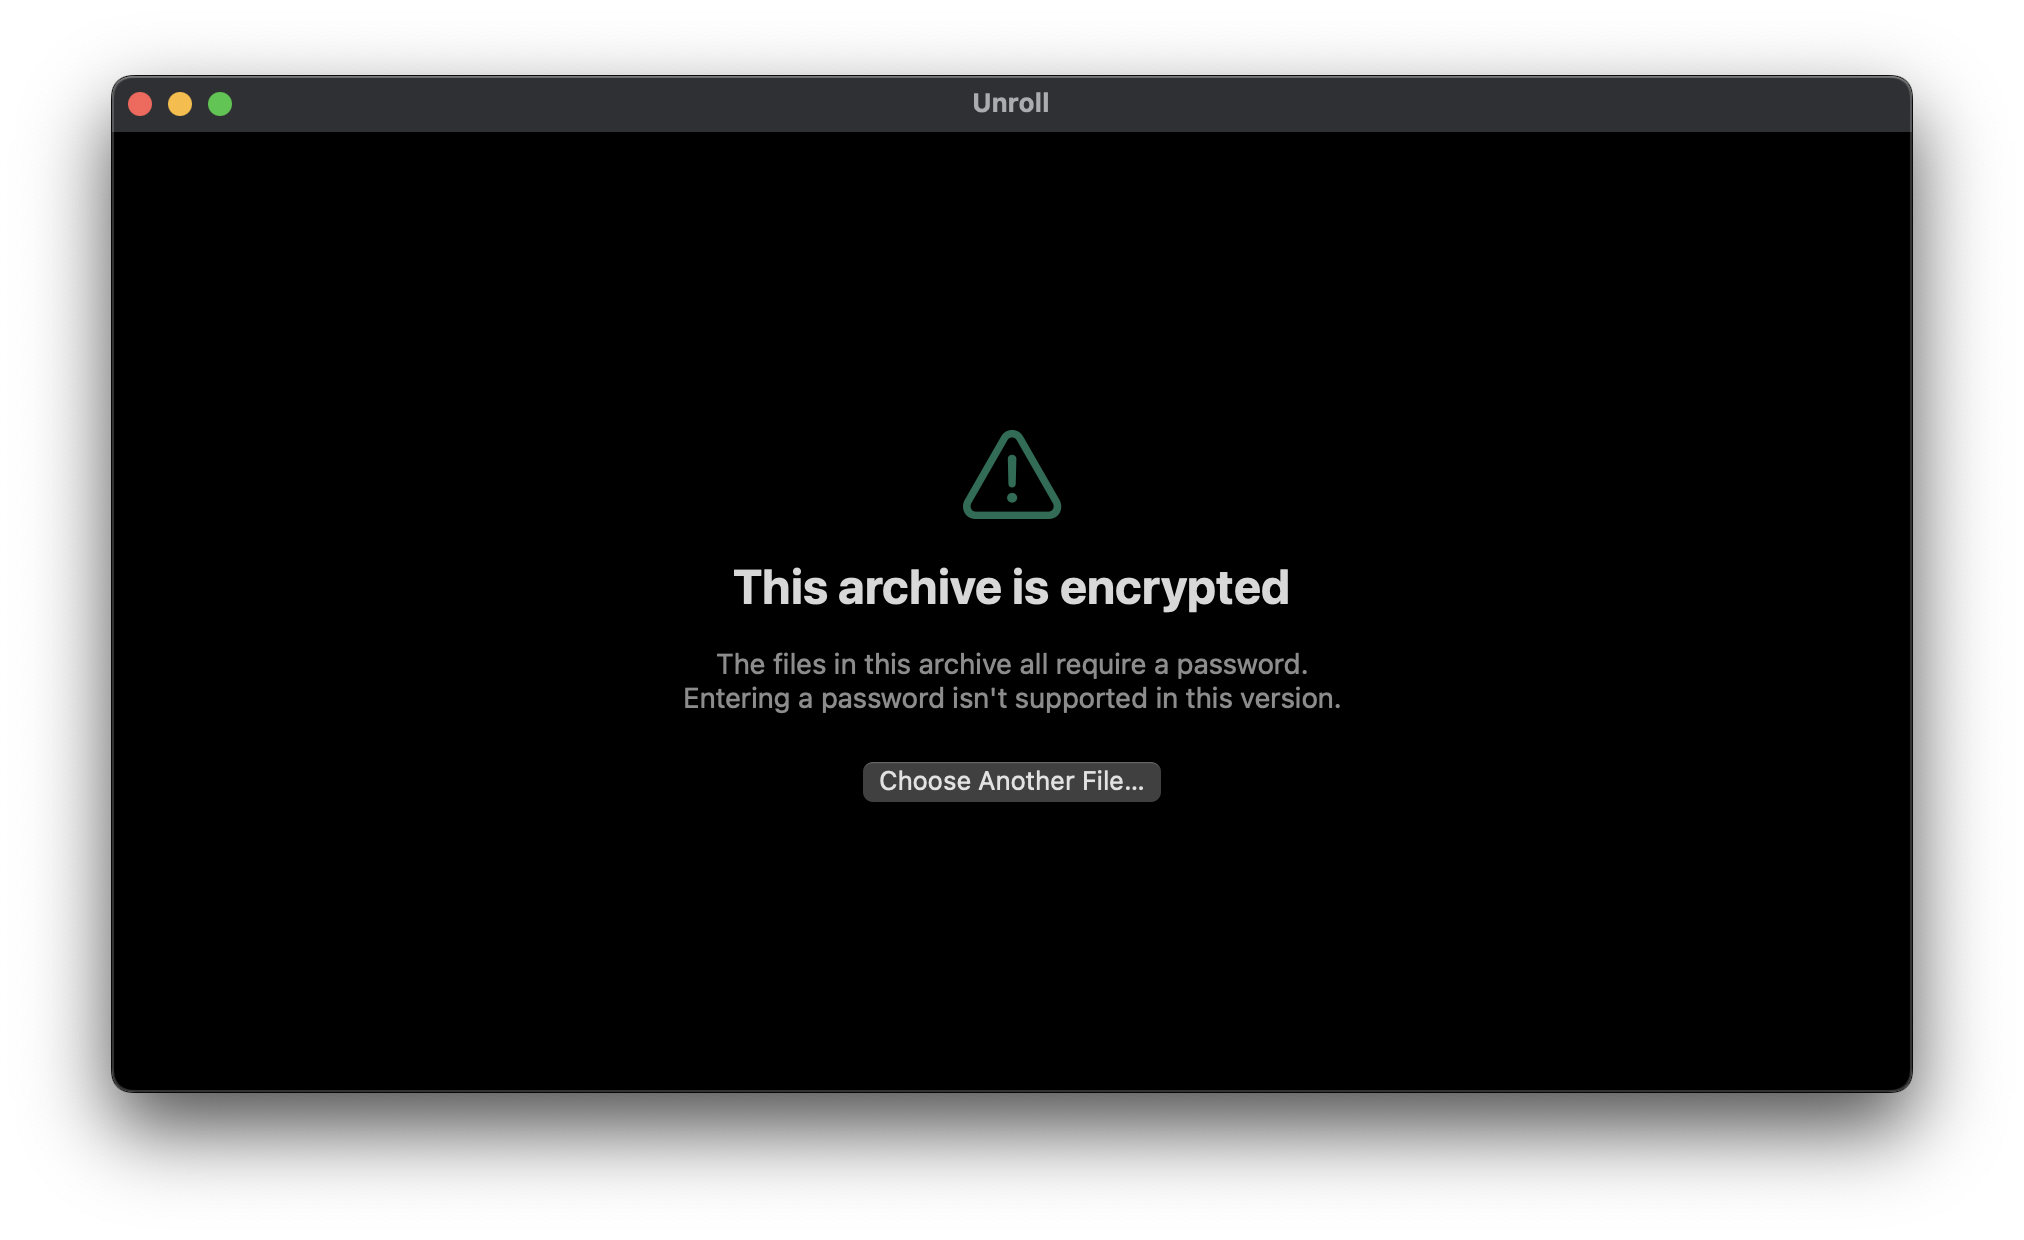
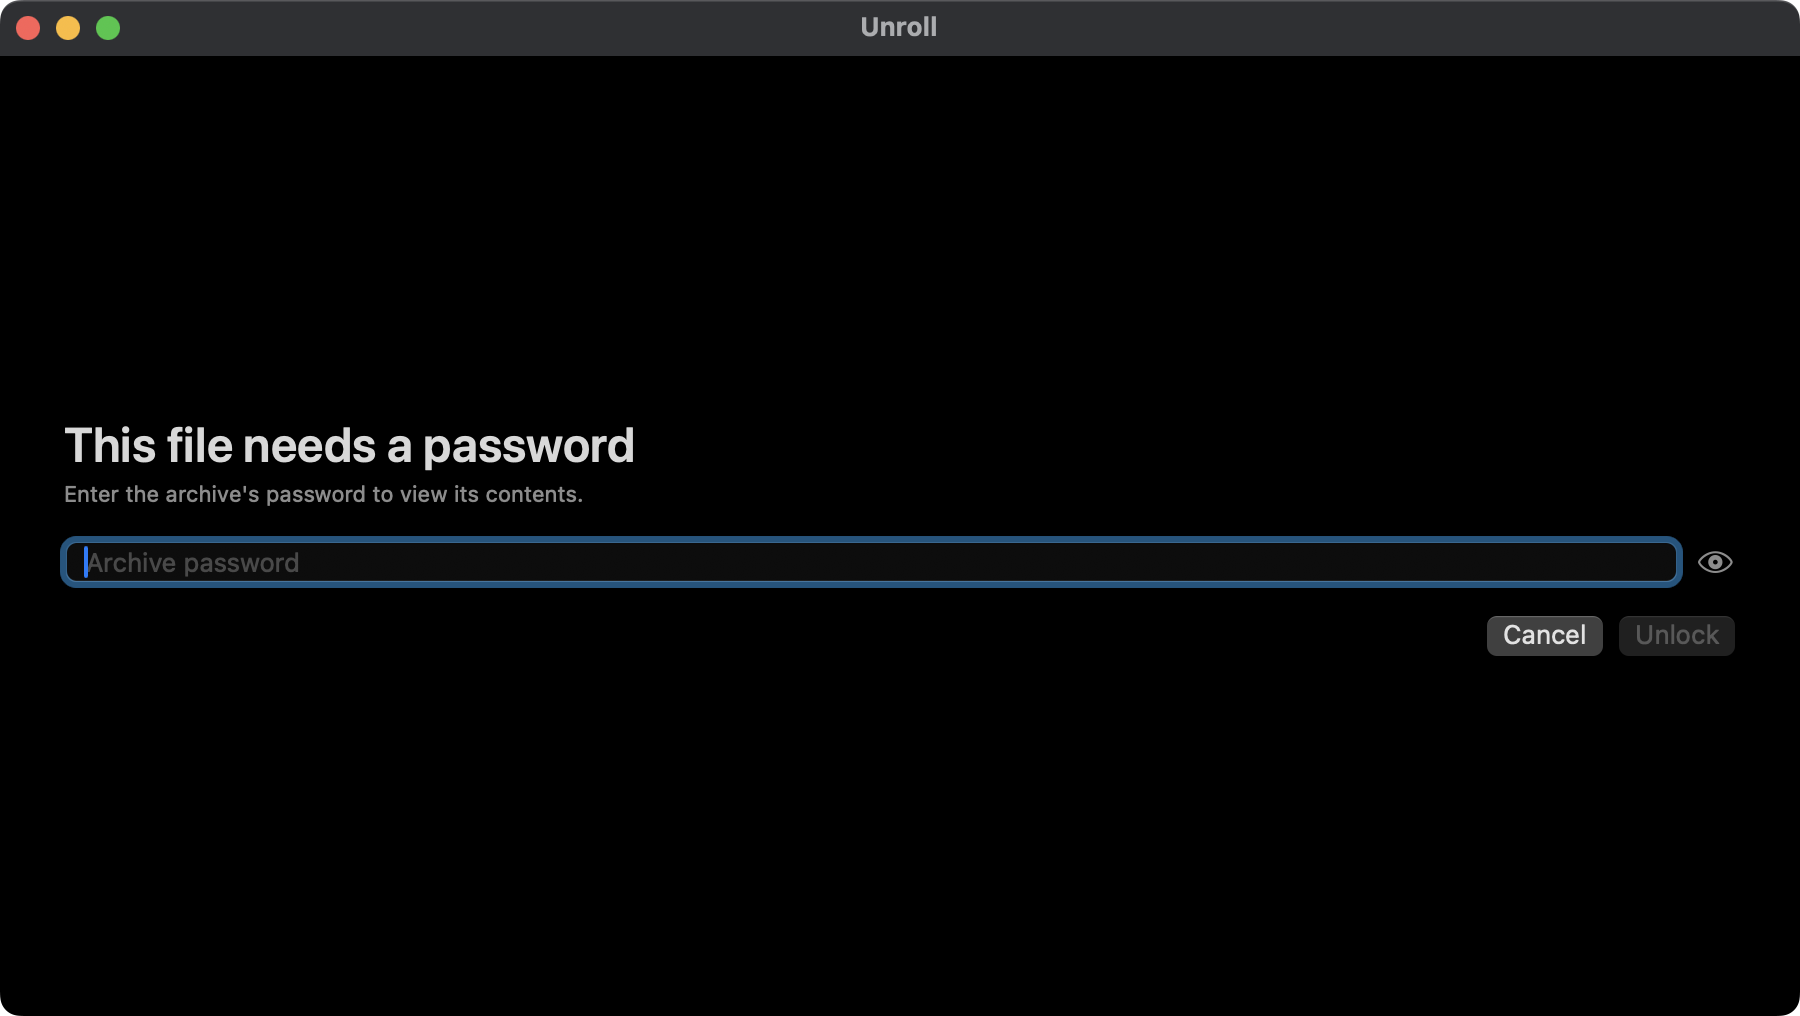
fix(release): 发布说明过期 / README 截图是旧界面 / 文档里的失效哈希与版本
一轮发布前核查,发现五处会真正影响到「发出去的东西」的问题:

1. release-notes-v1.0.1.md 停在上一批(通篇没有"密码"二字),而产物已重建、
   功能已落地。前检对说明只做 `[ -f ]`,八项全绿也会把一份缺头号功能的正文
   发到 Release 页。已重写(中英同步),并把守卫从"验存在"改成"验内容":
   说明里必须出现本版版本号(硬失败),mtime 早于产物另给一条提示(不判失败
   —— 先写说明再重建产物是正当顺序)。反向测试:注入不含版本号的假说明 →
   第 5 步立刻红、退出码 1;换回真说明 → 转绿。

2. README 的加密归档截图还是 09-16 那版,图上写着「当前版本暂不支持输入密码」,
   而图注已经改成"给出密码入口"—— 头号卖点配一张自我否定的图。已给
   verify-ui.sh 加 `password` 段(中英各拍一张)并重拍。语言用
   `open -a APP --args -AppleLanguages` 覆盖,**前提是 App 尚未运行**
   (已有实例在跑时 argv 会被静默丢弃 —— 这才是"open --args 传不进 App"
   的真实条件;`--env` 路线实测无效)。窗口标题在这一阶段就是 App 显示名,
   所以"语言有没有真的切过去"做成机器判据 —— 否则会把中文图静默存进英文槽位。

3. docs/测试与验证.md §11.7 里的示例哈希 3a8f97a… 在历史重写后已不存在,
   读者照抄会得到 "Not a valid object name"。改用重写后的对应提交
   (8f6197b,经 .git/filter-repo/commit-map 映射核对)与当前构建提交 a08ae54。

4. 文档头部声称环境是 macOS 26.x,实测 sw_vers 是 15.7.4(Xcode 26.1 /
   Swift 6.2.1 无误)。已改正。

5. CHANGELOG 的 1.0.1 日期写的是 09-16,而内容含 09-17 的功能、产物也是
   09-17 构建的。改为 09-17(发布日应等于实际发布当天)。

顺带:verify-ui.sh 里 `local title` 那段踩到 `set -u` + 变量紧邻多字节字符
(`«$title»` → bash 把 `»` 的首字节并入变量名 → unbound),已全数改为 `${var}`,
并把坑写进注释。发布清单 §4 增 3d(说明是否写进本版新增功能 —— 只有人能判)。

均为文档/脚本改动,未触碰 SHIPPING/ARTIFACT 路径集,产物判据不受影响。

diff --git a/CHANGELOG.md b/CHANGELOG.md
@@ -1,6 +1,6 @@
 # Changelog
 
-## 1.0.1 — 2026-09-16 · 首个公开发布 / First public release
+## 1.0.1 — 2026-09-17 · 首个公开发布 / First public release
 
 首个公开版本 / First public release.
 
